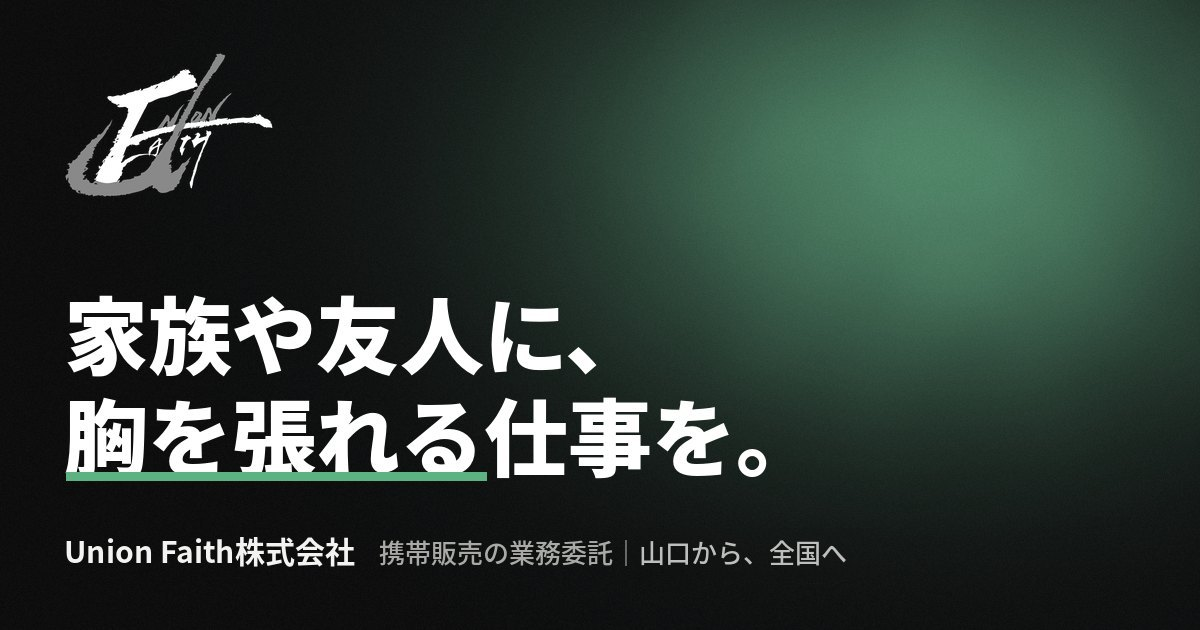
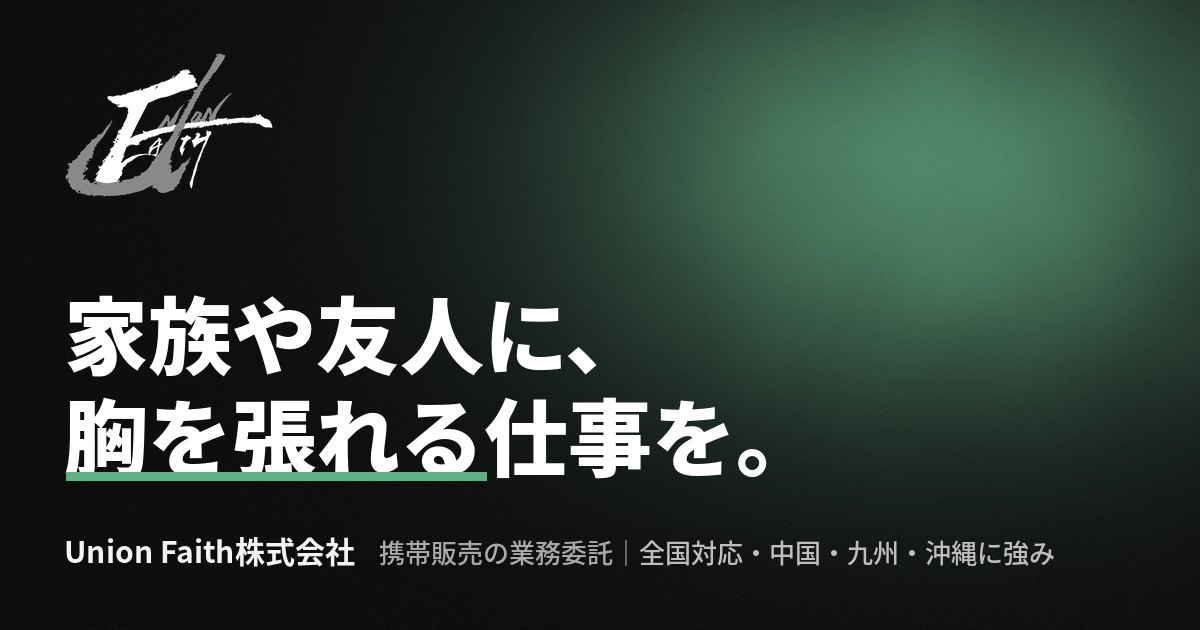
「全国対応・中国・九州・沖縄に強み」に変更、採用に契約社員・アルバイトを追加
- エリアの見せ方を「全国から相談できる／特に中国・九州・沖縄に強い」に統一
- 数字の欄と会社概要を「対応エリア 全国」に
- 採用情報の働き方に業務委託・契約社員・アルバイトを並べ、報酬・給与を働き方ごとに表示
- 共有画像の文字と説明文を合わせて更新

Claude-Session: https://claude.ai/code/session_01HebnDu3YZbdSzo5dZoczMy

Changed region(s): [[0.5242, 0.8444, 0.8942, 0.9048]]

diff --git a/index.html b/index.html
@@ -4,13 +4,13 @@
 <meta charset="utf-8">
 <meta name="viewport" content="width=device-width, initial-scale=1, viewport-fit=cover">
 <title>Union Faith株式会社｜携帯販売の業務委託・販売促進・新規事業支援</title>
-<meta name="description" content="Union Faith株式会社は、山口に本社を置く携帯販売の業務委託会社です。全国のクライアントから、山口・九州・沖縄を中心にキャリアショップや家電量販店の携帯電話売場を任され、販売スタッフの採用・育成から売場の運営までを請け負っています。販売促進・イベント、新規事業の立ち上げ支援も行っています。">
+<meta name="description" content="Union Faith株式会社は、山口に本社を置く携帯販売の業務委託会社です。ご相談は全国から承り、なかでも中国・九州・沖縄は特に強いエリアです。キャリアショップや家電量販店の携帯電話売場で、販売スタッフの採用・育成から売場の運営までを請け負います。販売促進・イベント、新規事業の立ち上げ支援も行っています。">
 <link rel="canonical" href="https://unionfaith.jp/">
 <meta name="theme-color" content="#0E0E0F">
 <meta property="og:type" content="website">
 <meta property="og:site_name" content="Union Faith株式会社">
 <meta property="og:title" content="Union Faith株式会社｜携帯販売の業務委託・販売促進・新規事業支援">
-<meta property="og:description" content="Union Faith株式会社は、山口に本社を置く携帯販売の業務委託会社です。全国のクライアントから、山口・九州・沖縄を中心にキャリアショップや家電量販店の携帯電話売場を任され、販売スタッフの採用・育成から売場の運営までを請け負っています。販売促進・イベント、新規事業の立ち上げ支援も行っています。">
+<meta property="og:description" content="Union Faith株式会社は、山口に本社を置く携帯販売の業務委託会社です。ご相談は全国から承り、なかでも中国・九州・沖縄は特に強いエリアです。キャリアショップや家電量販店の携帯電話売場で、販売スタッフの採用・育成から売場の運営までを請け負います。販売促進・イベント、新規事業の立ち上げ支援も行っています。">
 <meta property="og:url" content="https://unionfaith.jp/">
 <meta property="og:image" content="https://unionfaith.jp/og.jpg">
 <meta property="og:image:width" content="1200">
@@ -357,6 +357,9 @@ h3{font:900 1.25rem/1.5 var(--f-display)}
 .spec dt{font-size:.875rem;font-weight:500;color:var(--sub)}
 .spec dd{font-weight:500}
 .spec dd small{display:block;font-size:.8125rem;font-weight:400;color:var(--sub)}
+.spec .pay{display:block}
+.spec .pay + .pay{margin-top:.85rem}
+.spec .pay b{display:block;width:max-content;margin-bottom:.3rem;padding:.05rem .6rem;border:1px solid var(--green);border-radius:999px;font-size:.75rem;font-weight:700;line-height:1.6;color:var(--green)}
 
 /* ---------- recruit ---------- */
 .recruit{display:grid;grid-template-columns:minmax(0,1fr) minmax(0,1fr);gap:clamp(2rem,5vw,4rem);align-items:start}
@@ -472,13 +475,13 @@ fieldset{border:0;padding:0;margin:0;min-width:0}
   <section class="hero on-ink" id="hero">
     <canvas id="ink" aria-hidden="true"></canvas>
     <div class="wrap wrap--wide hero__in">
-      <p class="eyebrow mono">携帯販売の業務委託 ／ 山口から、全国へ</p>
+      <p class="eyebrow mono"><span class="ph">携帯販売の業務委託 ／&nbsp;</span><span class="ph">全国対応・</span><span class="ph">中国・九州・沖縄に強み</span></p>
       <h1>
         <span class="ln"><span style="--i:0">家族や友人に、</span></span>
         <span class="ln ln--a"><span style="--i:1"><span class="hl">胸を張れる</span></span></span><span class="ln ln--b"><span style="--i:2">仕事を。</span></span>
       </h1>
       <div class="hero__foot">
-        <p class="lead">Union Faith株式会社は、携帯販売の業務委託を行う会社です。全国のクライアントから、山口・九州・沖縄を中心とした売場を任されています。採用から育成まで責任を持つ販売チームを、キャリアショップと併売店へ届けます。</p>
+        <p class="lead">Union Faith株式会社は、携帯販売の業務委託を行う会社です。ご相談は全国から承り、なかでも中国・九州・沖縄は特に強いエリアです。採用から育成まで責任を持つ販売チームを、キャリアショップと併売店へ届けます。</p>
         <div class="doors">
           <a class="btn btn--fill" href="#business">販売を任せたい企業の方へ<i aria-hidden="true">&rarr;</i></a>
           <a class="btn" href="#recruit">ここで働きたい方へ<i aria-hidden="true">&rarr;</i></a>
@@ -516,7 +519,7 @@ fieldset{border:0;padding:0;margin:0;min-width:0}
       <dl class="stats">
         <div><dt>稼働店舗</dt><dd>10<small>店舗</small></dd></div>
         <div><dt>スタッフ</dt><dd>20<small>名</small></dd></div>
-        <div><dt>クライアント</dt><dd>全国</dd></div>
+        <div><dt>対応エリア</dt><dd>全国</dd></div>
         <div><dt>創業</dt><dd>2020<small>年</small></dd></div>
       </dl>
       <p class="stats__note mono">店舗数・人数は2026年10月時点</p>
@@ -571,7 +574,7 @@ fieldset{border:0;padding:0;margin:0;min-width:0}
         </li>
         <li>
           <h3>地域の売場を知っている</h3>
-          <p>山口・九州・沖縄の売場で、経験を積み重ねてきました。地域ごとのお客様と売場の事情をつかんでからスタッフを配置する進め方は、ほかの地域の案件でも変わりません。</p>
+          <p>中国・九州・沖縄の売場で、経験を積み重ねてきました。地域ごとのお客様と売場の事情をつかんでからスタッフを配置する進め方で、全国どの地域のご相談にもお応えします。</p>
         </li>
         <li>
           <h3>法令遵守を最優先にする</h3>
@@ -629,18 +632,21 @@ fieldset{border:0;padding:0;margin:0;min-width:0}
       <div class="sh">
         <p class="label">Recruit<span>採用情報</span></p>
         <h2><span class="ph">一緒に働く</span><span class="ph">仲間を、</span><span class="ph">探しています。</span></h2>
-        <p>山口・九州・沖縄を中心とした売場で、一緒に働く仲間を募集しています。未経験の方も、先輩が現場でサポートします。</p>
+        <p>中国・九州・沖縄を中心とした売場で、一緒に働く仲間を募集しています。働き方は、業務委託・契約社員・アルバイトから選べます。未経験の方も、先輩が現場でサポートします。</p>
       </div>
       <div class="recruit__side">
         <dl class="spec">
           <div><dt>職種</dt><dd>携帯・スマホ販売スタッフ</dd></div>
           <div><dt>仕事内容</dt><dd>家電量販店の携帯電話売場での接客と販売（機種や料金プランのご案内、契約の手続きなど）</dd></div>
           <div><dt>現在の募集</dt><dd>山口市の家電量販店</dd></div>
-          <div><dt>契約形態</dt><dd>業務委託</dd></div>
-          <div><dt>報酬</dt><dd>日額13,500円〜15,000円<small><span class="ph">月21日稼働で、</span><span class="ph">月283,500円〜315,000円</span></small></dd></div>
-          <div><dt>稼働時間</dt><dd>10:00〜19:00</dd></div>
-          <div><dt>稼働日数</dt><dd>月21日<small>休みの日数は月によって変わります</small></dd></div>
-          <div><dt>交通費</dt><dd>なし（ご相談ください）</dd></div>
+          <div><dt>働き方</dt><dd><span class="ph">業務委託・</span><span class="ph">契約社員・</span><span class="ph">アルバイト</span><small>ご希望と経験に合わせて、面談で相談して決められます</small></dd></div>
+          <div><dt>報酬・給与</dt><dd>
+            <span class="pay"><b>業務委託</b>日額13,500円〜15,000円<small><span class="ph">月21日稼働で、</span><span class="ph">月283,500円〜315,000円</span></small></span>
+            <span class="pay"><b>契約社員・アルバイト</b>面談でご説明します<small>勤務日数・交通費・社会保険も、あわせてご説明します</small></span>
+          </dd></div>
+          <div><dt>時間</dt><dd>10:00〜19:00</dd></div>
+          <div><dt>日数</dt><dd>月21日（業務委託）<small>休みの日数は月によって変わります。契約社員・アルバイトは、勤務日数をご相談ください</small></dd></div>
+          <div><dt>交通費</dt><dd>業務委託はなし（ご相談ください）</dd></div>
           <div><dt>経験</dt><dd>不問（未経験歓迎）</dd></div>
           <div><dt>選考</dt><dd>応募 → 面談 → 結果のご連絡</dd></div>
         </dl>
@@ -669,7 +675,7 @@ fieldset{border:0;padding:0;margin:0;min-width:0}
             <div><dt>創業</dt><dd>2020年6月</dd></div>
             <div><dt>法人設立</dt><dd>2021年11月</dd></div>
             <div><dt>所在地</dt><dd><span class="ph">〒753-0821</span> <span class="ph">山口県山口市葵1-1-21</span></dd></div>
-            <div><dt>取引エリア</dt><dd>全国（山口・九州・沖縄を中心に展開）</dd></div>
+            <div><dt>対応エリア</dt><dd>全国<small>特に中国・九州・沖縄</small></dd></div>
             <div><dt>規模</dt><dd>稼働店舗10店舗・スタッフ20名<small>2026年10月時点</small></dd></div>
             <div><dt>事業内容</dt><dd>携帯販売の業務委託、販売促進・イベント、新規事業の立ち上げ支援</dd></div>
           </dl>
